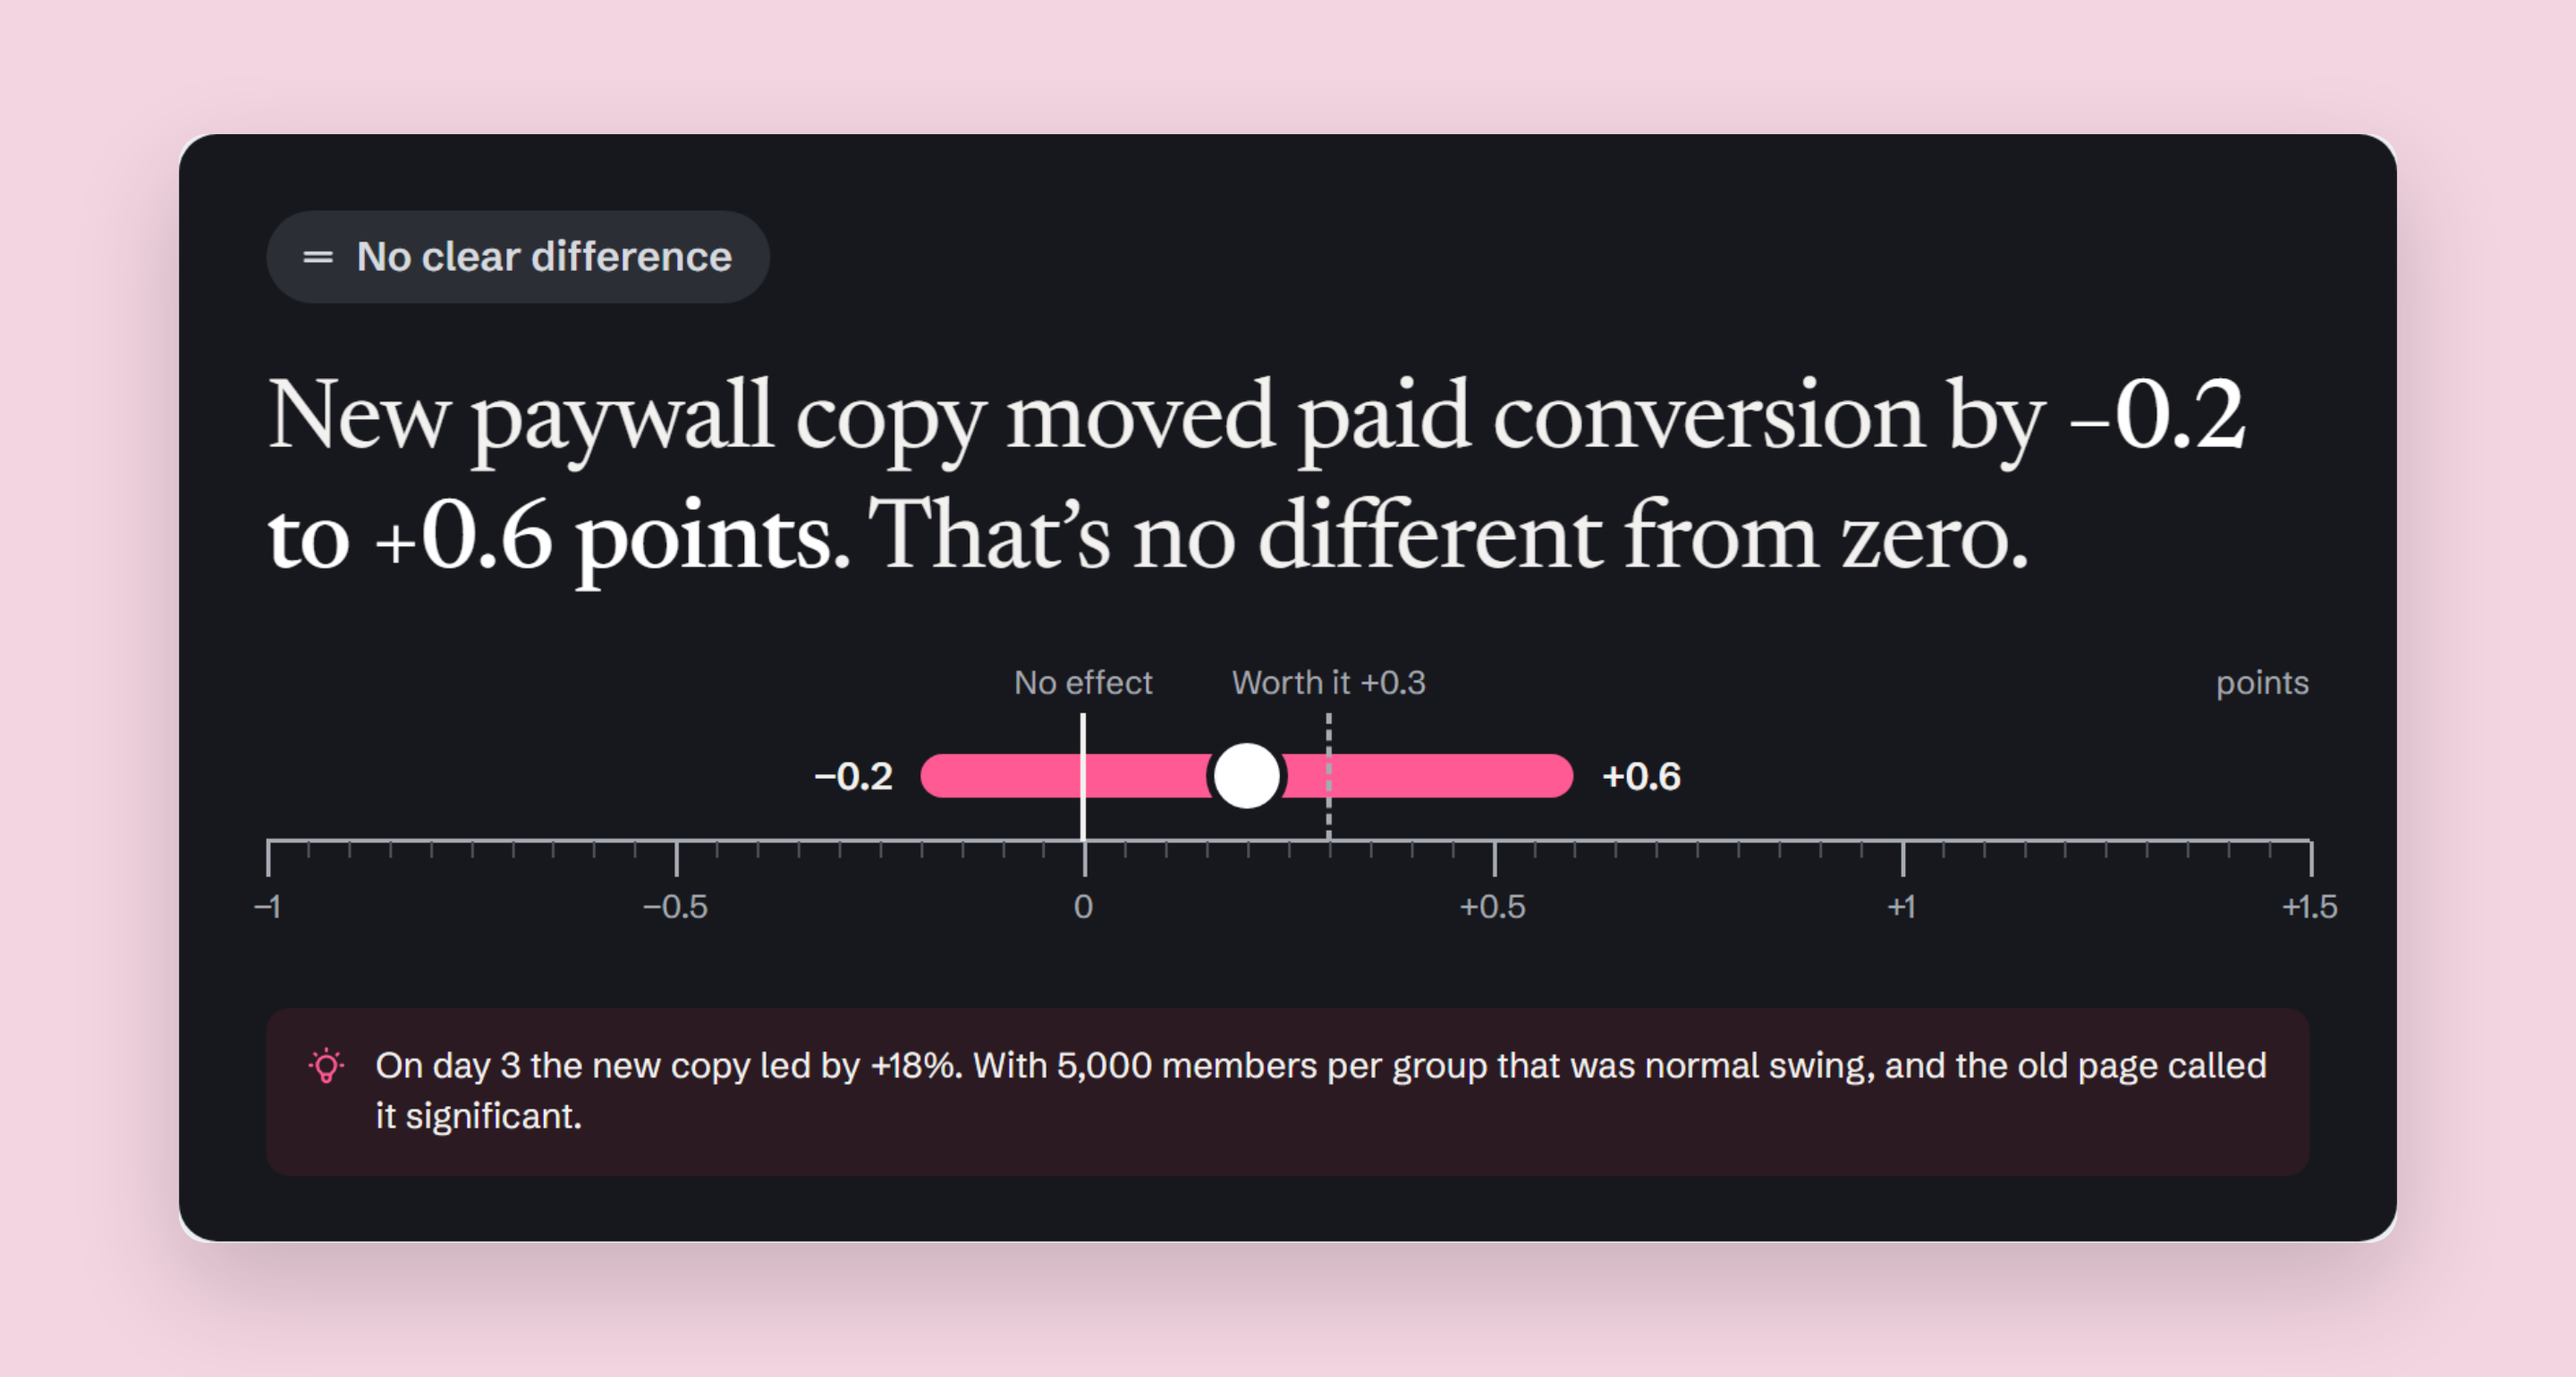
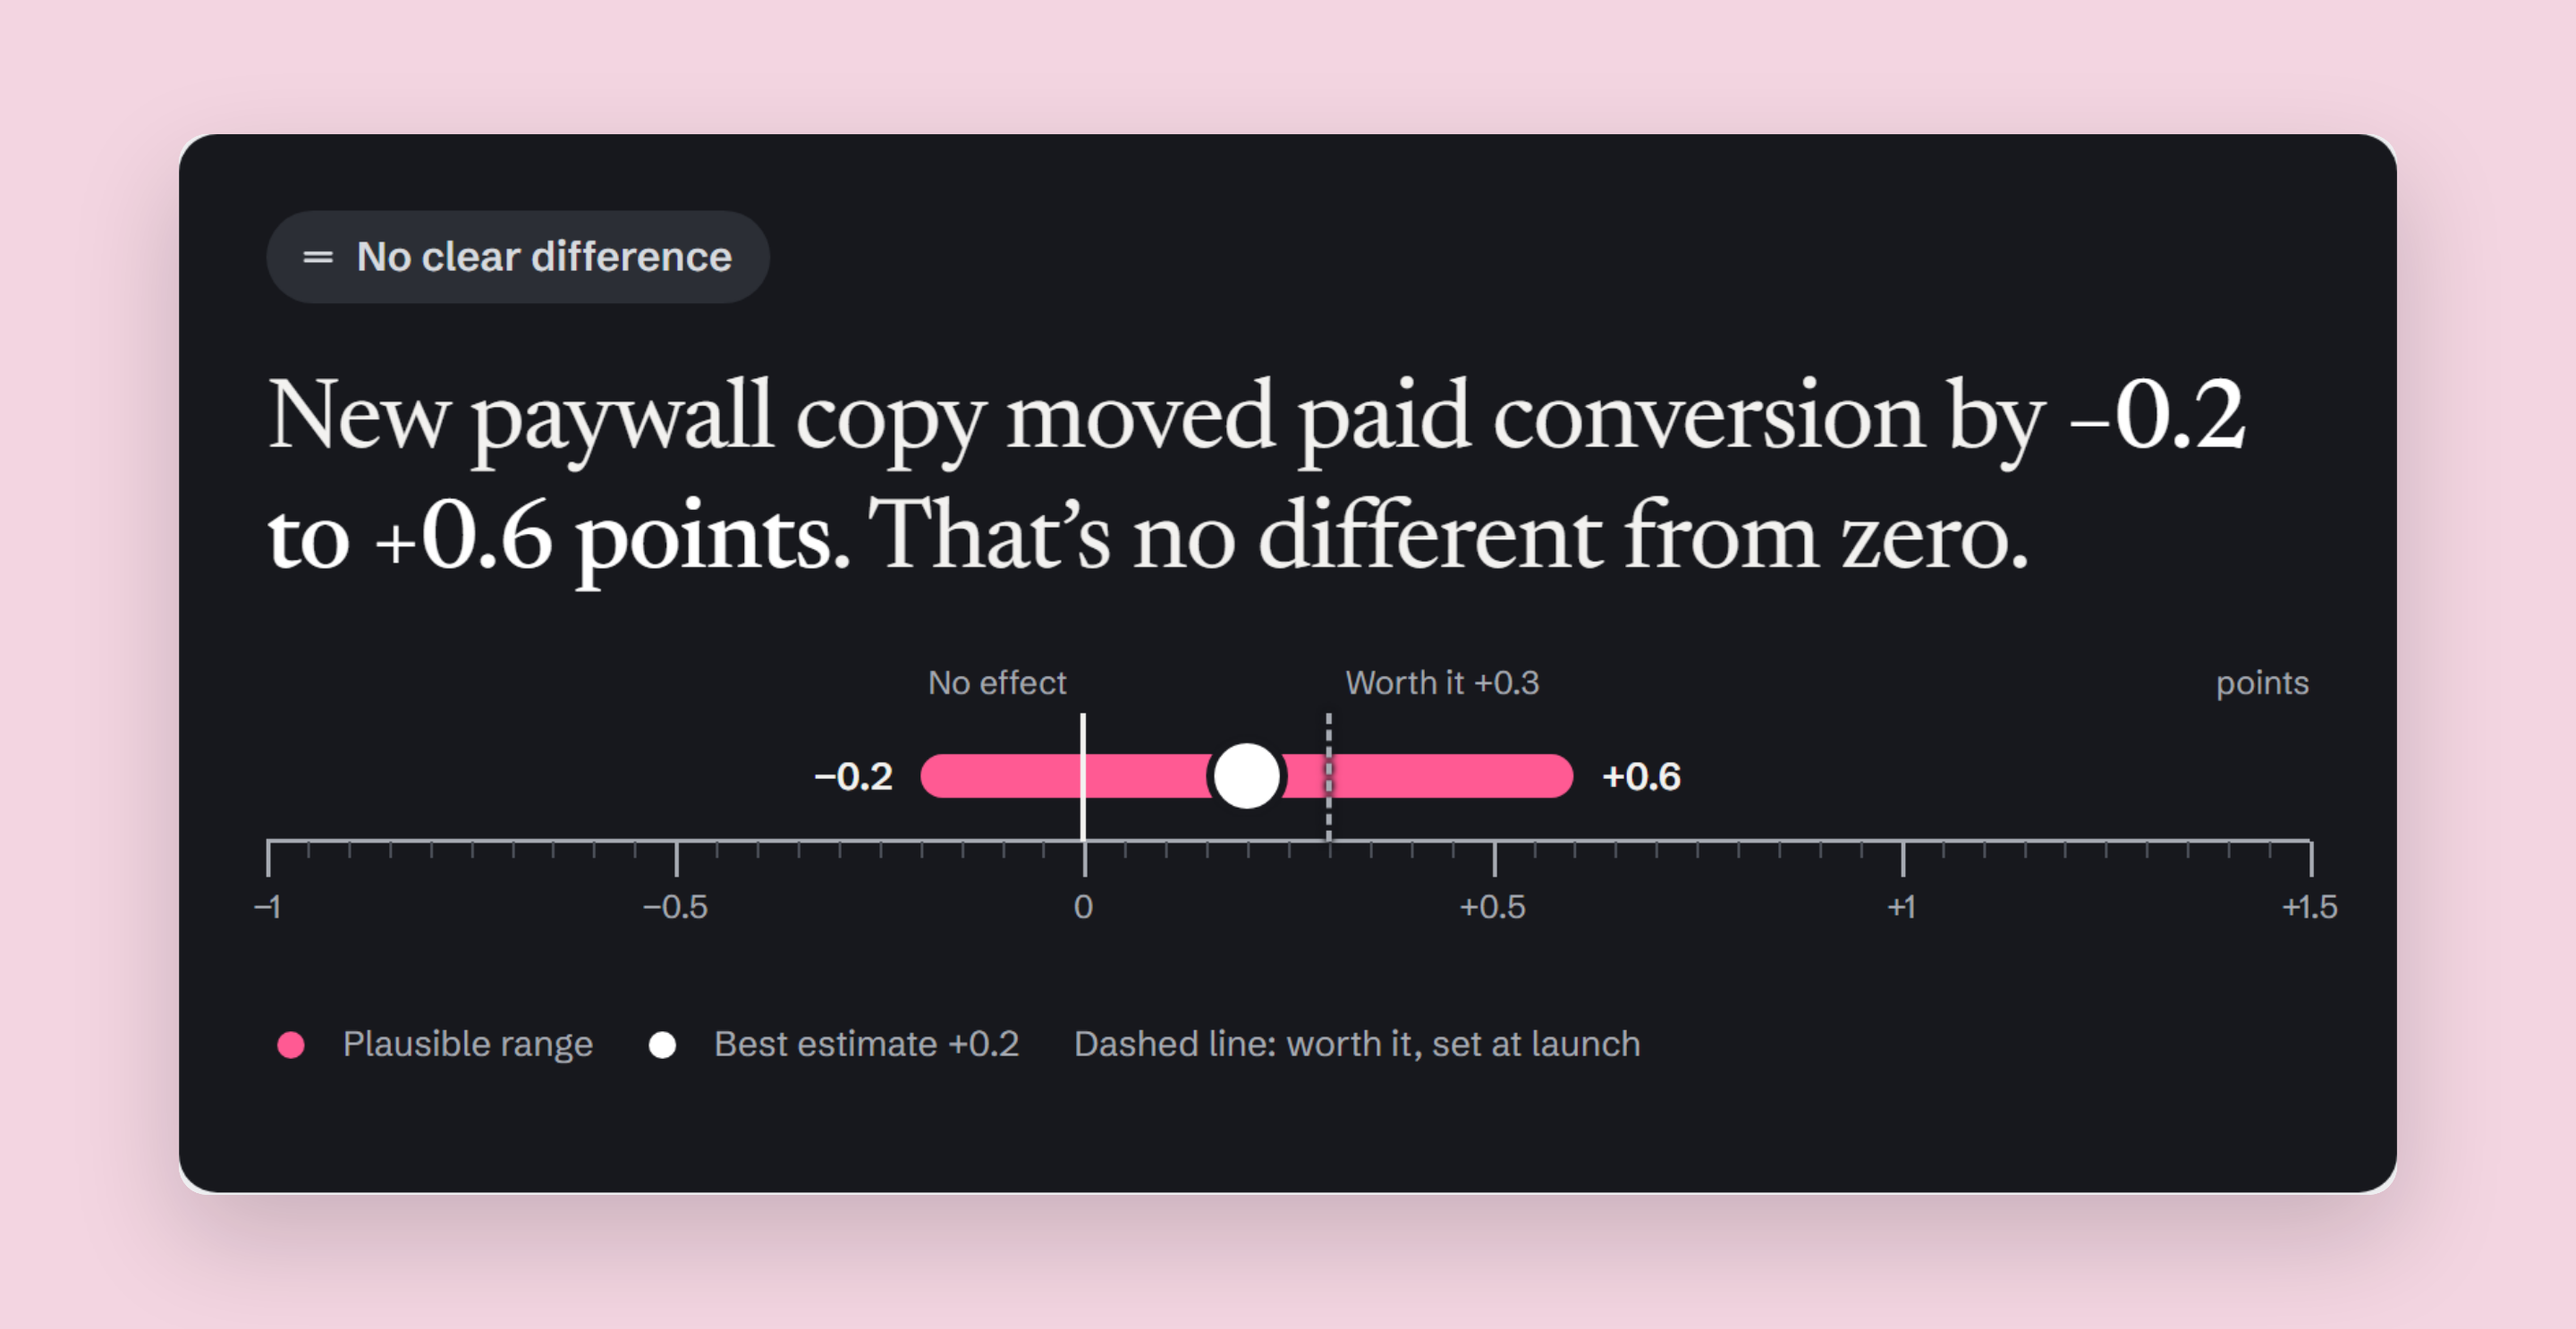
Mira: case images and text after the design review
Screens changed in the review: owner moved into the plan panel, closed
tests offer "Extend test", "Ship to all members", a ruler legend on every
result. Case images 01, 07, 08 and 09 re-rendered. Text: the segment
correction is described as the final version (untested), and a guardrail
breach is mentioned.

diff --git a/mira-experiment-results.html b/mira-experiment-results.html
@@ -76,11 +76,12 @@
 <h2 class="reveal">A sentence first, then the range</h2>
 <p class="reveal">The result opens with a sentence a product manager can repeat at review, with the range in it: “likely raises 7-day repeat bookings by +0.9 to +3.3&nbsp;points.” Under it, the ruler shows zero, the worth-it line the team set at launch and the plausible range. Mira comes from “міра”, Ukrainian for “measure”, so the ruler is the product’s one memorable element: a dark instrument panel, a graduated rule, a raspberry range. Everything around it stays quiet grey.</p>
 <p class="reveal">A flat test gets the same treatment. The paywall copy moved paid conversion by −0.2 to +0.6&nbsp;points, so the sentence says it’s no different from zero.</p>
-<div class="media reveal"><figure class="fig"><img src="img/mira-experiment-results/07-flat.webp" alt="Paywall copy result panel: No clear difference, the sentence “moved paid conversion by −0.2 to +0.6 points” and a range that crosses zero and the +0.3 worth-it line" width="2048" height="1095" loading="lazy" decoding="async"><figcaption>No clear difference: the range crosses zero and the worth-it line</figcaption></figure></div>
+<div class="media reveal"><figure class="fig"><img src="img/mira-experiment-results/07-flat.webp" alt="Paywall copy result panel: No clear difference, the sentence “moved paid conversion by −0.2 to +0.6 points” and a range that crosses zero and the +0.3 worth-it line" width="2048" height="1057" loading="lazy" decoding="async"><figcaption>No clear difference: the range crosses zero and the worth-it line</figcaption></figure></div>
 <p class="reveal">Analysts keep everything they had, one click away in Details: p-value, z, relative interval, power and the sample ratio check.</p>
 <h2 class="reveal">Too early is a state, not a missing number</h2>
 <p class="reveal">Until the planned sample is in, there is no lift and no range. The panel says how much of the sample is collected and when the verdict comes. The guardrail metrics are checked meanwhile, because harm can stop a test early. Benefit can’t.</p>
 <div class="media reveal"><figure class="fig"><img src="img/mira-experiment-results/08-early-before-after.webp" alt="Before and after side by side: the old page shows +18% Significant on day 3 of 14; the new panel says Too early, 38% of the planned sample, verdict on 6 Nov" width="2048" height="811" loading="lazy" decoding="async"><figcaption>Early in a test, the old page named a winner; the new one names a date</figcaption></figure></div>
+<p class="reveal">When something goes wrong, the panel says so in the same way: a guardrail breach stops the test and shows how far over the limit it went.</p>
 <p class="reveal">The worth-it line is set when the test is created. Mira turns it into a planned sample, 14,366&nbsp;members per group, and a verdict date.</p>
 <div class="media reveal"><figure class="fig"><img src="img/mira-experiment-results/09-setup.webp" alt="New experiment form: the worth-it line set to +1.5 points, a preview of how the result will read, and the plan it needs, 14,366 members per group and a verdict on 6 Nov" width="2048" height="734" loading="lazy" decoding="async"><figcaption>The line is set before anyone sees a result</figcaption></figure></div>
 <h2 class="reveal">Segments can’t rescue a flat test</h2>
@@ -97,7 +98,7 @@
 <p class="reveal">So the product gives the verdict itself, right and on time, and keeps the statistics in Details for those who want them.</p>
 <p class="reveal">The final version, with the verdict, the range and sample readiness, against the old page:</p>
 <ul class="reveal"><li><strong>Correct decisions</strong> rose from 59% to 72%, +13&nbsp;points (+6 to +20 across people). Decisions took 43&nbsp;seconds instead of 52.</li><li><strong>Shipping on early data</strong> fell from 38% to 14%. People now doubt themselves when they’re wrong: confidence 3.9 on right calls, 3.0 on wrong ones.</li><li><strong>In the pilot</strong>, 3 workspaces over 8&nbsp;weeks, tests stopped before the planned sample fell from 36% to 19%, 5 of 26. The cost: the median test now runs 14&nbsp;days instead of 12.</li></ul>
-<p class="reveal"><strong>The surprise in one segment.</strong> Product and growth people gained the most, from 46% to 71%. Analysts didn’t move: 72% to 73%. On tests with no effect they even did worse, 81% to 72%, though with 24&nbsp;people per group that range runs from −26 to +8&nbsp;points, so it’s a signal, not a finding. They opened segments, found one that looked significant and shipped. The exploratory label didn’t stop them. Next step: the correction goes into the segment verdict itself, not a note under it.</p>
+<p class="reveal"><strong>The surprise in one segment.</strong> Product and growth people gained the most, from 46% to 71%. Analysts didn’t move: 72% to 73%. On tests with no effect they even did worse, 81% to 72%, though with 24&nbsp;people per group that range runs from −26 to +8&nbsp;points, so it’s a signal, not a finding. They opened segments, found one that looked significant and shipped. The exploratory label didn’t stop them. So the final version puts the correction into the segment view itself: ranges widen for every extra look, and a segment that only wins before correcting says so. That version hasn’t been tested yet.</p>
 <div class="media reveal"><figure class="fig"><img src="img/mira-experiment-results/14-by-role.webp" alt="Dot plot of correct decisions by role: product and growth 46% to 71%, analysts 72% to 73%, analysts on tests with no effect 81% to 72%" width="2048" height="853" loading="lazy" decoding="async"><figcaption>Product people gained; analysts didn’t</figcaption></figure></div>
 <div class="media reveal"><figure class="fig"><img src="img/mira-experiment-results/15-results.webp" alt="Results table: correct decisions 59% to 72%, time 52 to 43 seconds, early ships 38% to 14%, early stops 36% to 19%, test length 12 to 14 days" width="2048" height="853" loading="lazy" decoding="async"><figcaption>A modest result with a cost</figcaption></figure></div>
 <h2 class="reveal">What I learned</h2>

diff --git a/Voitenko Design — Portfolio/11 Mira — experiment results/case.md b/Voitenko Design — Portfolio/11 Mira — experiment results/case.md
@@ -86,6 +86,8 @@ Until the planned sample is in, there is no lift and no range. The panel says ho
 
 ![Early in a test, the old page named a winner; the new one names a date](images/08-early-before-after.png)
 
+When something goes wrong, the panel says so in the same way: a guardrail breach stops the test and shows how far over the limit it went.
+
 The worth-it line is set when the test is created. Mira turns it into a planned sample, 14,366 members per group, and a verdict date.
 
 ![The line is set before anyone sees a result](images/09-setup.png)
@@ -120,7 +122,7 @@ The final version, with the verdict, the range and sample readiness, against the
 - **Shipping on early data** fell from 38% to 14%. People now doubt themselves when they’re wrong: confidence 3.9 on right calls, 3.0 on wrong ones.
 - **In the pilot**, 3 workspaces over 8 weeks, tests stopped before the planned sample fell from 36% to 19%, 5 of 26. The cost: the median test now runs 14 days instead of 12.
 
-**The surprise in one segment.** Product and growth people gained the most, from 46% to 71%. Analysts didn’t move: 72% to 73%. On tests with no effect they even did worse, 81% to 72%, though with 24 people per group that range runs from −26 to +8 points, so it’s a signal, not a finding. They opened segments, found one that looked significant and shipped. The exploratory label didn’t stop them. Next step: the correction goes into the segment verdict itself, not a note under it.
+**The surprise in one segment.** Product and growth people gained the most, from 46% to 71%. Analysts didn’t move: 72% to 73%. On tests with no effect they even did worse, 81% to 72%, though with 24 people per group that range runs from −26 to +8 points, so it’s a signal, not a finding. They opened segments, found one that looked significant and shipped. The exploratory label didn’t stop them. So the final version puts the correction into the segment view itself: ranges widen for every extra look, and a segment that only wins before correcting says so. That version hasn’t been tested yet.
 
 ![Product people gained; analysts didn’t](images/14-by-role.png)
 
